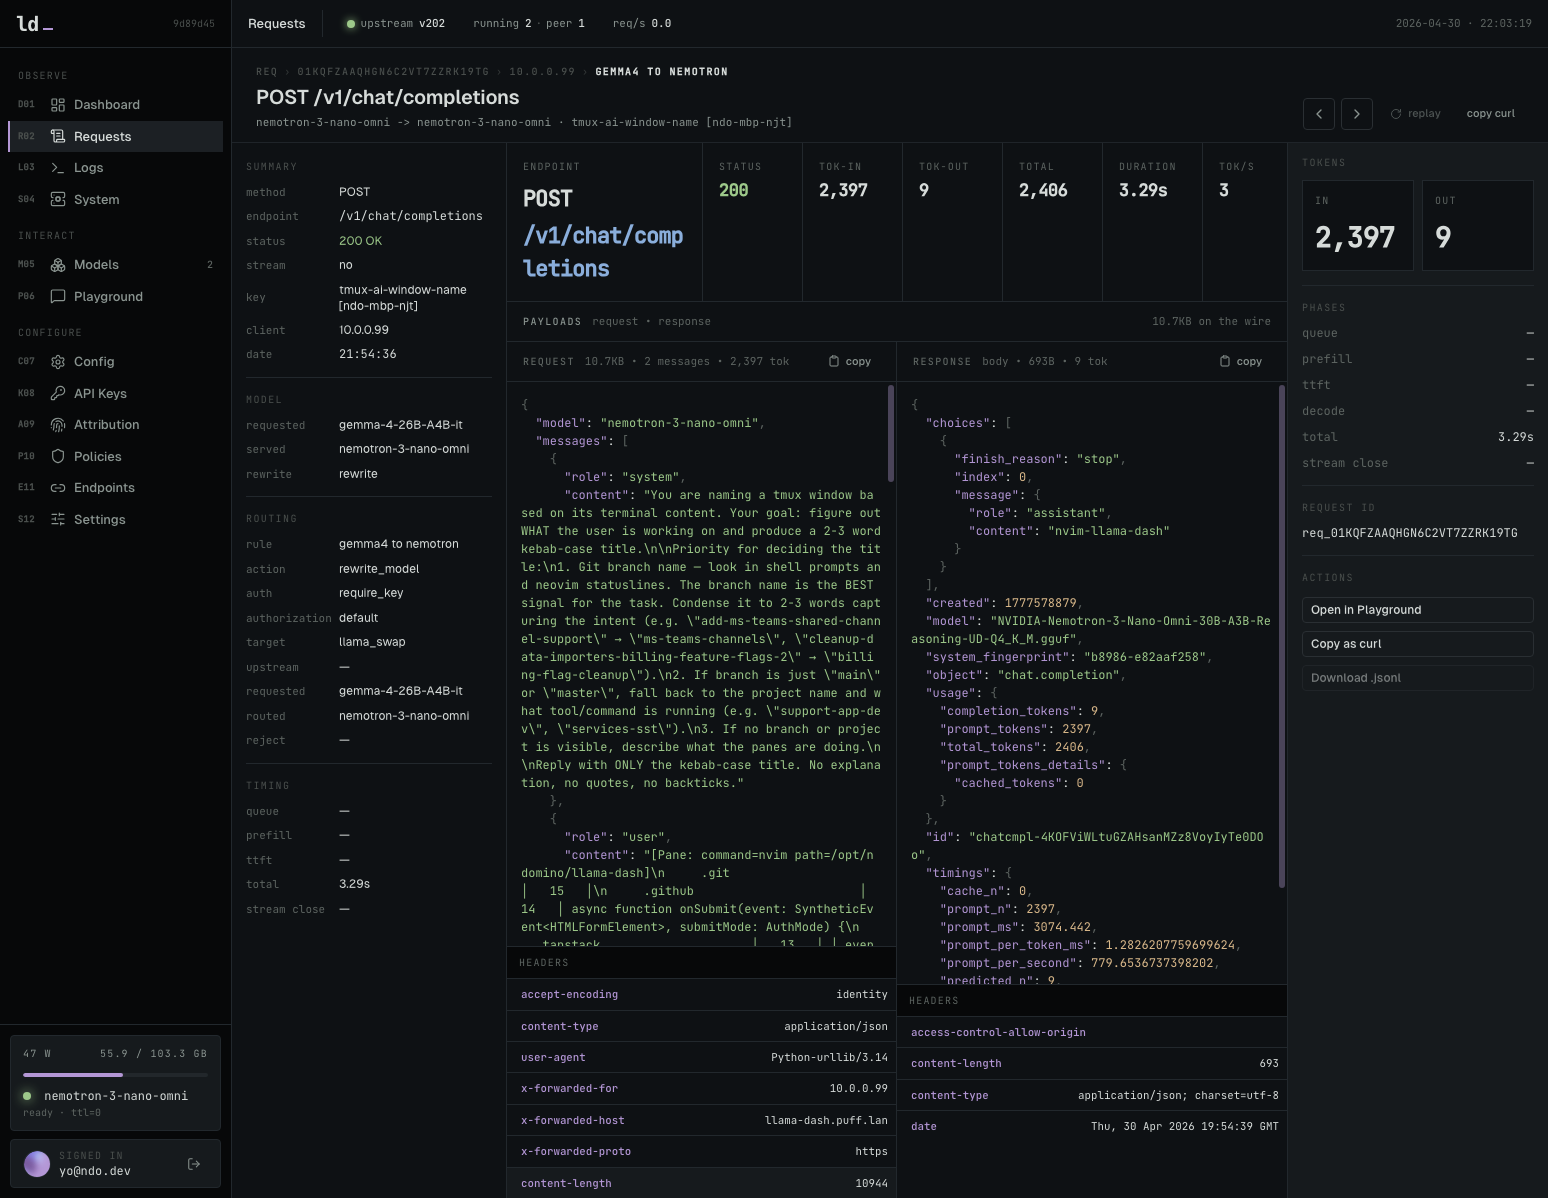
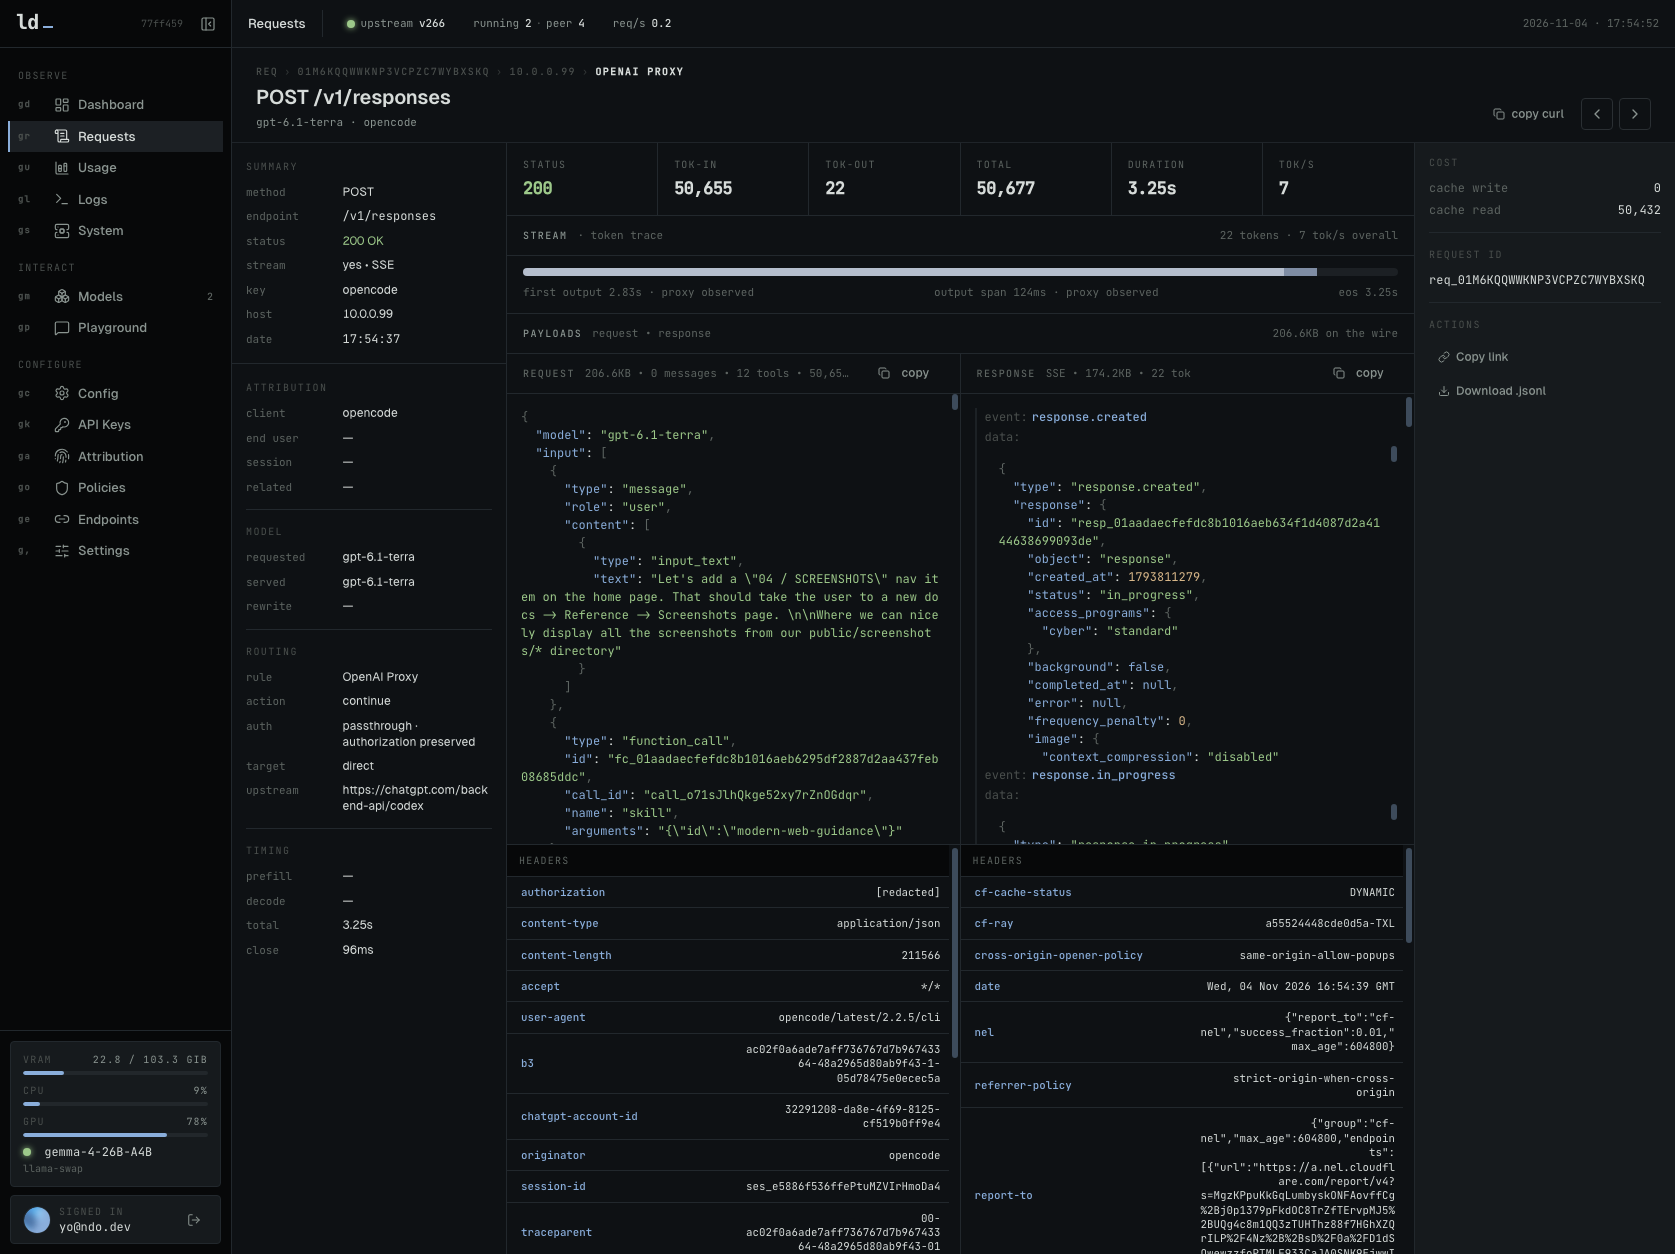
Add screenshots reference page

diff --git a/src/components/landing/landing.tsx b/src/components/landing/landing.tsx
@@ -83,6 +83,13 @@ export function LandingPage() {
               02 / ARCHITECTURE
             </Link>
             <DocsLink className="ld-nav-link">03 / DOCS</DocsLink>
+            <Link
+              to="/docs/$"
+              params={{ _splat: "reference/screenshots" }}
+              className="ld-nav-link"
+            >
+              04 / SCREENSHOTS
+            </Link>
             <a
               className="ld-nav-link ld-nav-link--accent"
               href={githubUrl}

diff --git a/src/components/mdx.tsx b/src/components/mdx.tsx
@@ -5,7 +5,7 @@ import defaultMdxComponents from "fumadocs-ui/mdx";
 import type { MDXComponents } from "mdx/types";
 import type { ComponentProps } from "react";
 
-function DocsImage({ alt, className, ...props }: ComponentProps<"img">) {
+export function DocsImage({ alt, className, ...props }: ComponentProps<"img">) {
   const imageAlt = alt ?? "";
 
   return (
